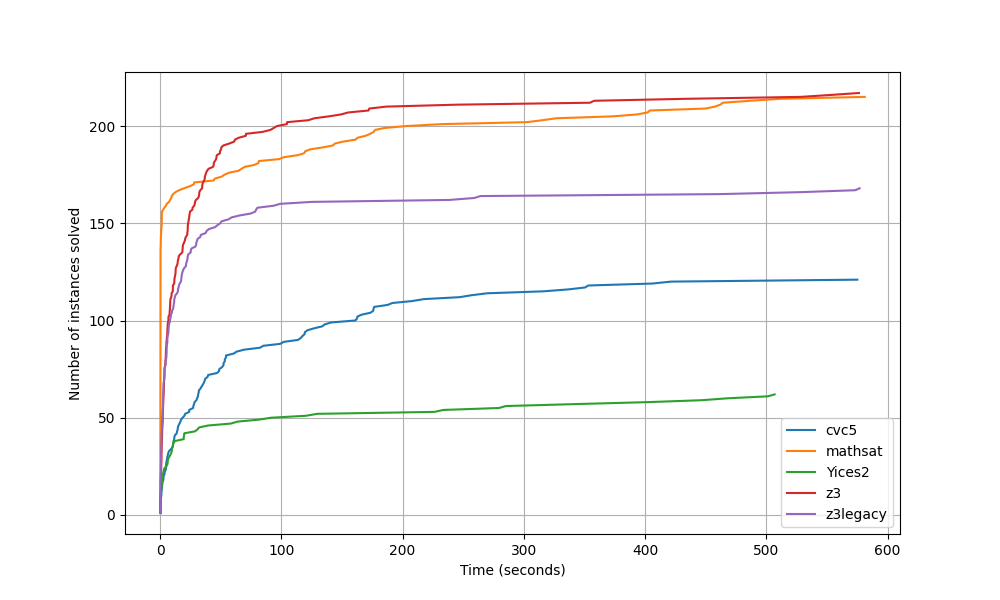
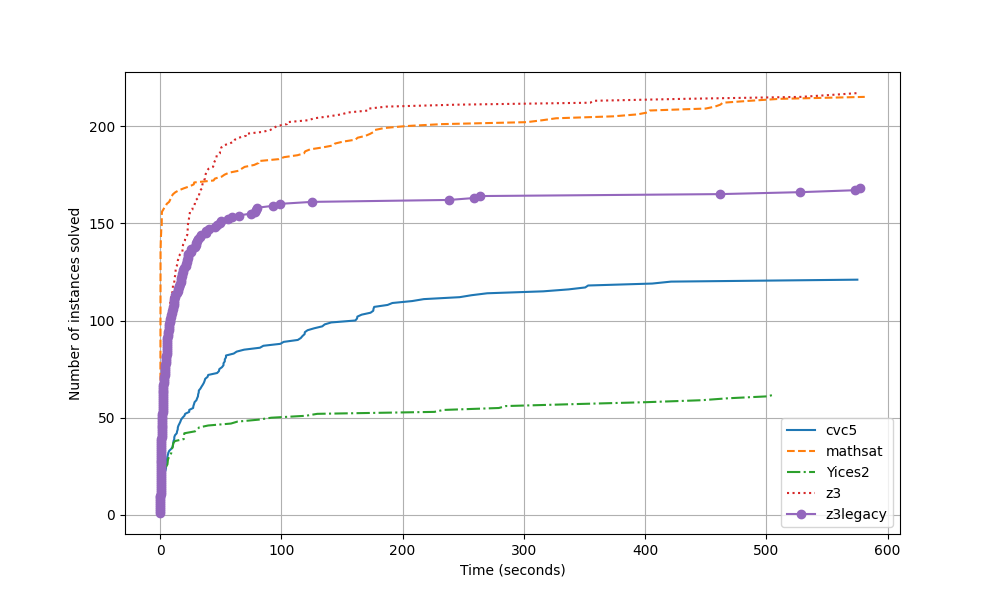
add styles to the plots

diff --git a/arithmetic/data/cactus.py b/arithmetic/data/cactus.py
@@ -58,10 +58,9 @@ class Stats:
                     if t_cpu < 600:
                         self.times.append(t_cpu)
  
-    def draw_cactus_plot(self):
+    def draw_cactus_plot(self, ls = "-"):
         sorted_times = sorted(self.times)
-        plt.plot(sorted_times, range(1, len(sorted_times) + 1), label=self.feature)
-        
+        plt.plot(sorted_times, range(1, len(sorted_times) + 1), ls,label=self.feature)
         
  
 def create_stats(args):    
@@ -85,12 +84,16 @@ def split_solver(benchmark):
         return "compare-" + m.group(2), m.group(1)
     return benchmark, "z3"
 
+line_styles = [ '-', '--', '-.', ':', 
+               '-o', '--o', '-.o', ':o', 
+               '-s', '--s', '-.s', ':s', 
+               '-*', '--*', '-.*', ':*']
 def draw_cactus_plots(stats):
     
     def draw_table(key, sts):
         plt.figure(figsize=(10, 6))
-        for st in sts:
-            st.draw_cactus_plot()
+        for i, st in enumerate(sts):
+            st.draw_cactus_plot(ls=line_styles[i % len(line_styles)])  # Use different line styles for each plot
         plt.xlabel('Time (seconds)')
         plt.ylabel('Number of instances solved')
         # plt.title(key)

diff --git a/arithmetic/paper/paper.tex b/arithmetic/paper/paper.tex
@@ -29,10 +29,8 @@
 \usepackage{paralist} % very flexible & customisable lists (eg. enumerate/itemize, etc.)
 %\usepackage{proof}
 \usepackage{verbatim} % adds environment for commenting out blocks of text & for better verbatim
-\usepackage{subfig} % make it possible to include more than one captioned figure/table in a single float
 \usepackage{xcolor}
 \usepackage{graphicx}
-\usepackage{subcaption}
 %\usepackage{amsmath}
 %\usepackage{amssymb}
 %\usepackage{amsthm}
@@ -45,7 +43,7 @@
 \usepackage{flowchart}
 \usepackage{hyperref}
 \usepackage{wrapfig}
-%\usepackage{subcaption}
+\usepackage{subcaption}
 \tikzstyle{startstop} = [rectangle, rounded corners, minimum width=3cm, minimum height=1cm,text centered, draw=black, fill=red!30]
 \tikzstyle{process} = [rectangle, minimum width=3cm, minimum height=1cm, text centered, draw=black, fill=orange!30]
 \tikzstyle{decision} = [diamond, minimum width=3cm, minimum height=1cm, text centered, draw=black, fill=green!30]
@@ -69,7 +67,7 @@
 %%% END Article customizations
 
 
-\definecolor{darkblue}{rgb}{0,0,0.6}
+\definecolor{darkblue}{rgb}{0,0, 0.6}
 \definecolor{darkgreen}{rgb}{0,0.6,0}
 \usepackage{listings}
 \lstnewenvironment{smtlib}
